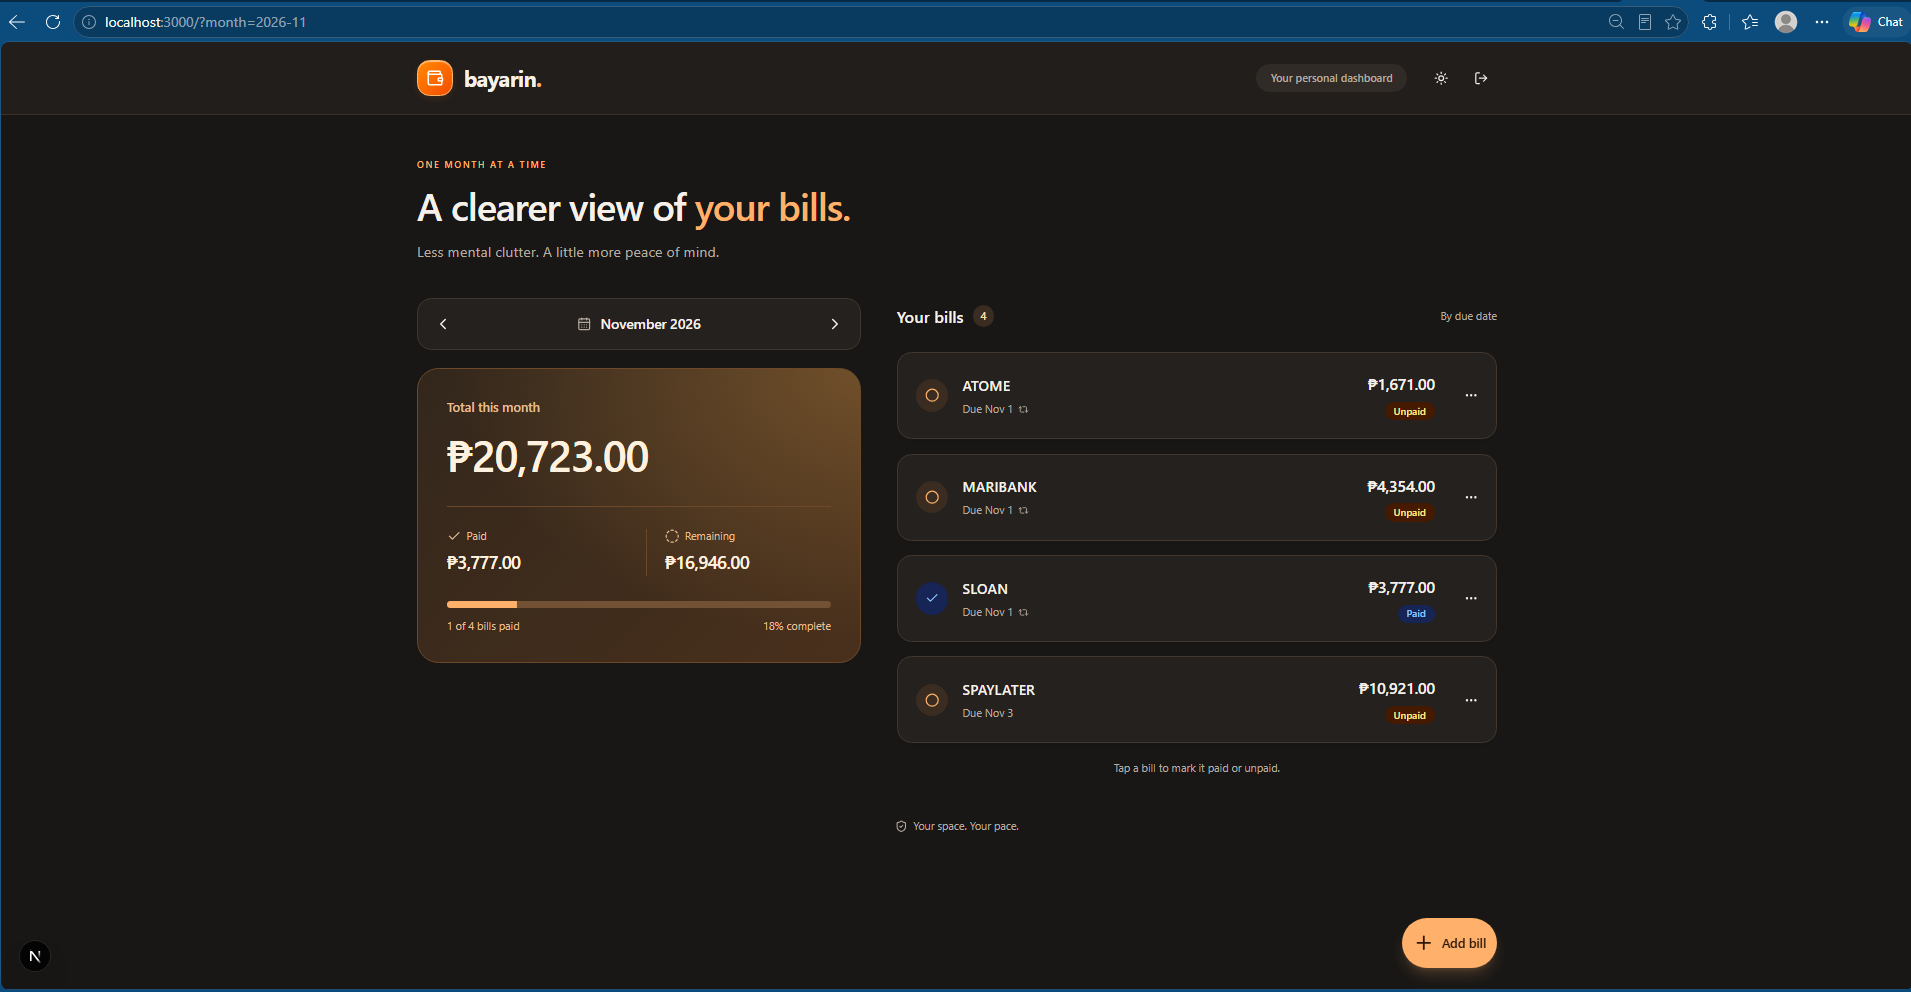
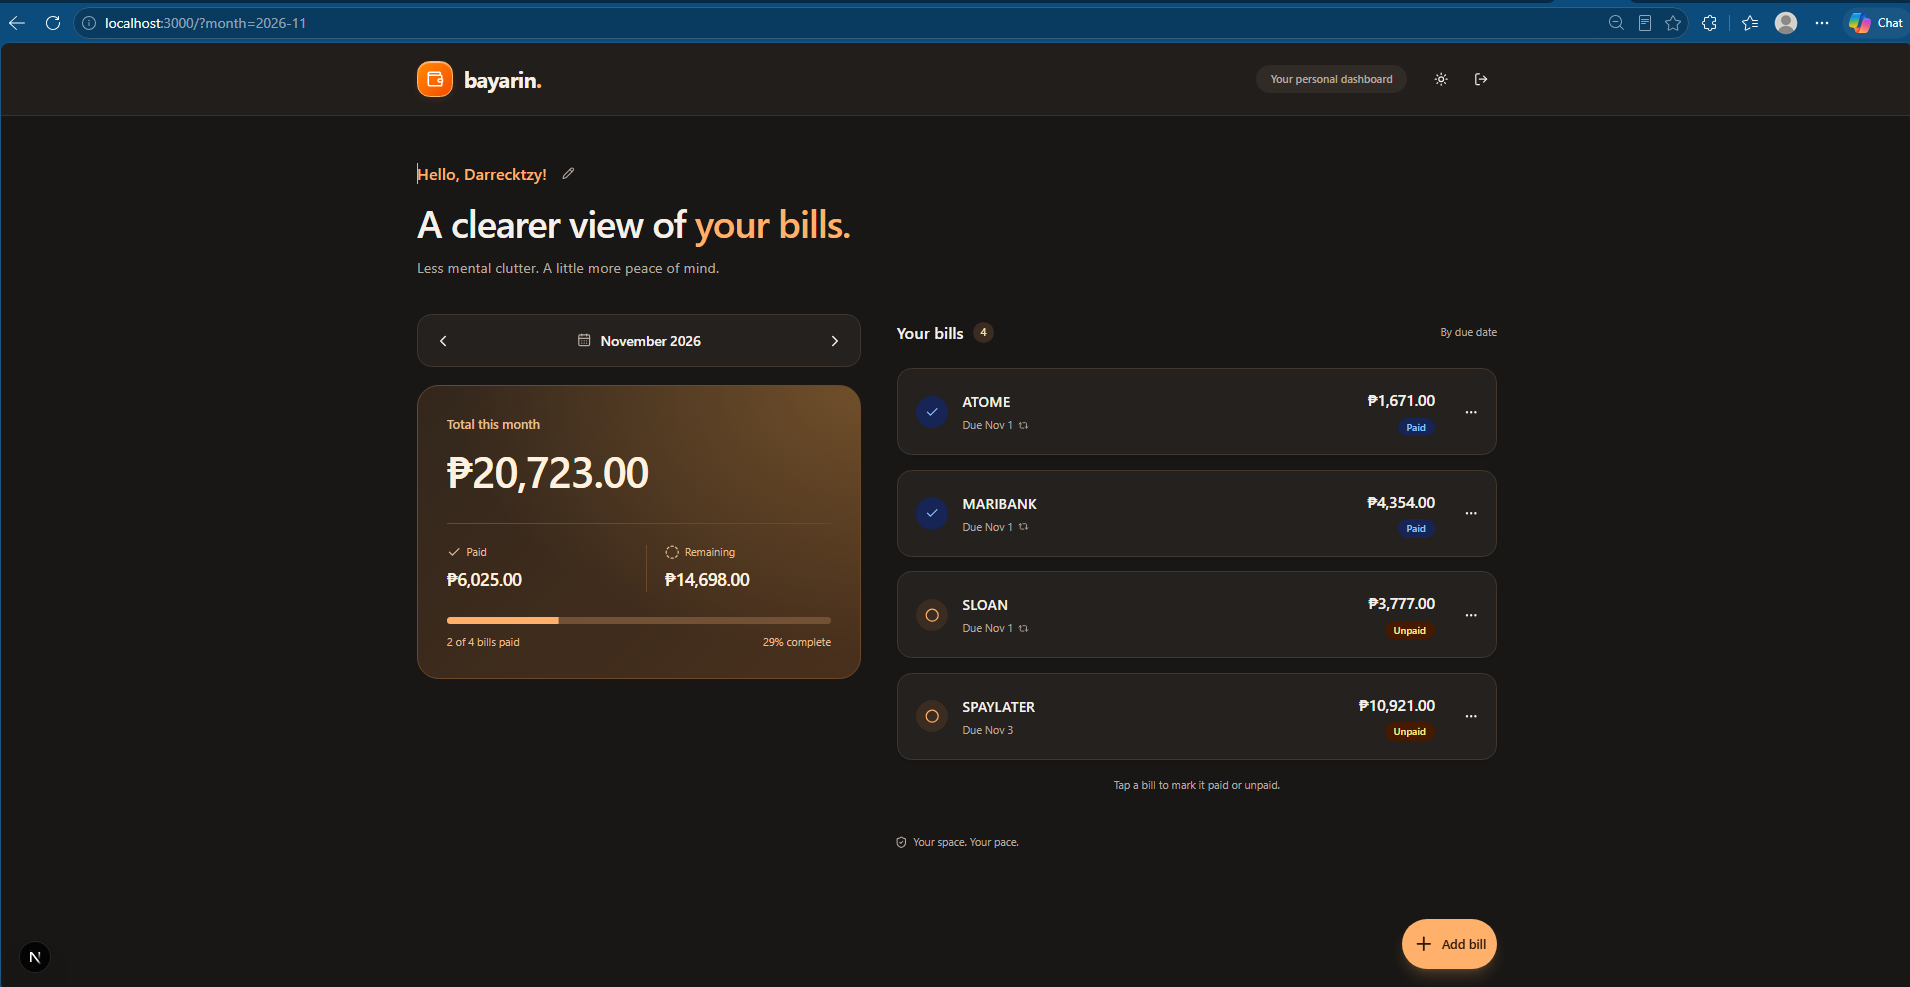
Update dark-mode screenshot with editable greeting

diff --git a/CHECKS.md b/CHECKS.md
@@ -50,7 +50,7 @@ No Supabase credentials were available during the initial implementation. The ap
 - README includes light/dark dashboard screenshots, features, CMD/PowerShell setup, Supabase configuration, and links to deployment instructions.
 - Full verification before upload: 46 tests, production build including TypeScript, and ESLint pass.
 - Source credential scan and README image-path checks pass. `.env.local`, dependency folders, and generated builds are excluded.
-- Included screenshots were supplied by the app owner; they predate the editable greeting. No new browser automation screenshots are claimed.
+- Included screenshots were supplied by the app owner. The latest dark-mode capture includes the editable greeting; the light-mode capture still predates it. A new Edge screenshot attempt was denied by the app approval gate, so no new browser automation capture is claimed.
 
 PGlite runs disposable PostgreSQL in-process. Its test Auth schema simulates Supabase roles and JWT ownership; it does not replace hosted integration checks.
 

diff --git a/docs/screenshots/README.md b/docs/screenshots/README.md
@@ -1,6 +1,6 @@
 # Dashboard screenshots
 
-- `desktop-light.png`: light theme, wide desktop dashboard.
-- `desktop-dark.png`: dark theme, wide desktop dashboard.
+- `desktop-light.png`: earlier light-theme dashboard capture, before the editable greeting.
+- `desktop-dark.png`: latest dark-theme dashboard capture, including the personalized greeting and edit-name pencil.
 
-These are screenshots supplied by the app owner during the UI redesign. The current app also includes an editable greeting, which was added after these captures. They show an example dashboard state rather than a fresh seed installation.
+These are actual screenshots supplied by the app owner. They show example dashboard states rather than a fresh seed installation. The light-mode capture still needs to be replaced with a current screenshot.

diff --git a/README.md b/README.md
@@ -25,14 +25,11 @@ A personal monthly bills and debt tracker with recurring bills, payment progress
 
 ![Bayarin desktop dashboard in light mode, with monthly totals and a bill list](docs/screenshots/desktop-light.png)
 
-<details>
-<summary>View dark mode</summary>
+### Dark mode
 
-![Bayarin desktop dashboard in dark mode](docs/screenshots/desktop-dark.png)
+![Bayarin desktop dashboard in dark mode with an editable greeting](docs/screenshots/desktop-dark.png)
 
-</details>
-
-These dashboard captures were taken during the UI redesign. The current version also includes the editable greeting above the title.
+The dark-mode capture shows the current editable greeting and pencil button. The light-mode image illustrates the earlier dashboard layout.
 
 ## Run locally
 
